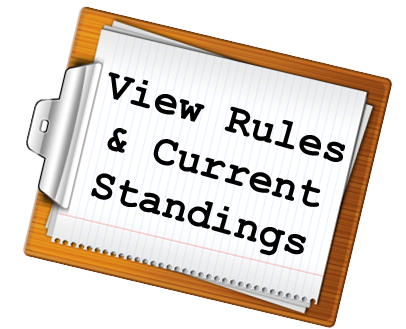
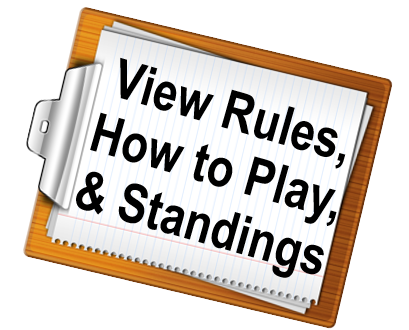
Add how to play section

diff --git a/Golf/index.html b/Golf/index.html
@@ -14,6 +14,53 @@
 			color:blue;
 			cursor:pointer;
 		}*/
+		.deviceDescription {
+			text-align:center;
+			vertical-align:top;
+			font-family:Tahoma, sans-serif;
+			font-size:14pt;
+		}
+		#mobileDescription {
+			text-align:center;
+			font-family:Tahoma, sans-serif;
+			font-size:14pt;
+			margin-top:13px;
+		}
+		#howToPlay {
+			font-family:'Roboto Slab', Tahoma, sans-serif;
+			font-size:30pt;
+			display:inline-block;
+			text-align:center;
+			margin-left:-2%;
+		}
+		.howToPlayHalf {
+			width:46%;
+			margin: 0% 1% 1% 1%;
+			display:inline-block;
+			vertical-align:top;
+		}
+		.howToPlaySubsection {
+			border:4px solid #006600;
+			border-radius:6px;
+			width:100%;
+			padding:5px;
+			font-family:Tahoma, sans-serif;
+			font-size:12pt;
+			display:inline-block;
+			text-align:center;
+			margin-top:10px;
+		}
+		.howToPlaySubtitle {
+			font-family:'Roboto Slab', Tahoma, sans-serif;
+			font-size:21pt;
+			margin: 0px;
+		}
+		.howToPlaySubsection img {
+			max-width:95%;
+			max-height:95%;
+			display:inline-block;
+			margin-top:10px;
+		}
 		.widthTest {
 			font-family:'Roboto Slab', Tahoma, sans-serif;
 			font-size:50pt;
@@ -331,7 +378,7 @@
 
 		.scoringSettings li::after {
 			content: "";
-			border-bottom: 4px dotted;
+			border-bottom: 3px dotted;
 			flex-grow: 1;
 			order: 2;
 			margin-bottom:0.4em;
@@ -348,6 +395,7 @@
     		padding:1em;
     		margin-top:1em;
     		position:relative;
+    		max-width:830px;
 		}
 
 		.startSelectionScreen {
@@ -453,7 +501,7 @@
 			cursor:pointer;
 		}
 
-    	#instructions {
+    	#scoringRules {
     		text-align:left;
     		width:13em;
     		display:inline-block;
@@ -536,9 +584,17 @@
     		margin-bottom:10px;
 		}
 
-		#instructionsButton {
+		#scoringRulesButton {
 			border-top-right-radius:0px;
 			border-bottom-right-radius:0px;
+			margin-right:-3px;
+		}
+		#howToPlayButton {
+			border-top-left-radius:0px;
+			border-bottom-left-radius:0px;
+			border-top-right-radius:0px;
+			border-bottom-right-radius:0px;
+			margin-left:-3px;
 			margin-right:-3px;
 		}
 		#standingsButton {
@@ -562,6 +618,21 @@
 		.overlayCloseButton {
     		background-color:#8833bb;
     		color:white;
+		}
+
+		#rulesStandingsTopCloseButton {
+			font-size:20pt;
+			font-family:sans-serif;
+			font-weight:bold;
+			position:absolute;
+			top:-20px;
+			left:100%;
+			margin-left:-30px;
+			min-width:50px;
+			min-height:50px;
+			padding: 4px 13px 7px 13px;
+			border:3px solid #440066;
+			border-radius:25px;
 		}
 
 		.scoreImg {
@@ -715,7 +786,7 @@
 					<td>
 						<div class="deviceOption" onclick="ClickedDevice(this)">
 							<img src="pc.png">
-							<p>Computer/Laptop</p>
+							<p>Laptop/Computer</p>
 						</div>
 					</td>
 					<td>
@@ -726,20 +797,49 @@
 					</td>
 				</tr>
 				<tr>
-					<td style="text-align:center;vertical-align:top;">(Excellent choice!)</td>
-					<td style="text-align:center;vertical-align:top;">This option will make your cards display bigger when it's your turn so you don't accidentally tap the wrong one and say "Wait, I didn't mean to do that!"</td>
+					<td class="deviceDescription">Excellent choice!</td>
+					<td class="deviceDescription">Turn your device horizontally to landscape for best results</td>
 				</tr>
 			</table>
+			<div id="mobileDescription" style="display:none">On a mobile device, your cards will automatically display larger on your turn so you don't accidentally tap on the wrong one and say "Wait, I didn't mean to do that!"</div>
 			<div class="buttonContainer">
 				<button id="deviceSelectDoneButton" style="display:none" class="overlayCloseButton" onclick="DeviceSelectDone()">Continue</button>
 			</div>
 		</span>
 		<span id="rulesStandings" class="overlayContent">
+			<button class="overlayCloseButton" id="rulesStandingsTopCloseButton" title="Close" onclick="OverlayClose()">x<img src=""></button>
 			<div class="buttonContainer">
-				<button id='instructionsButton' class="rulesStandingsButton selected" onclick="ShowInstructions()">Scoring Rules</button>
+				<button id='scoringRulesButton' class="rulesStandingsButton selected" onclick="ShowScoringRules()">Scoring Rules</button>
+				<button id='howToPlayButton' class="rulesStandingsButton" onclick="ShowHowToPlay()">How to Play</button>
 				<button id='standingsButton' class="rulesStandingsButton" onclick="ShowRoundByRound()">Current Standings</button>
 			</div>
-			<span id="instructions">
+			<span id="howToPlay">
+				<span class="howToPlayHalf">
+					<span class="howToPlaySubsection" id="howToPlayFlip">
+						<p class="howToPlaySubtitle">Flip over card</p>
+						<span>To flip over one of your face-down cards, click on it.</span>
+						<img src="howToPlay/flip.png">
+					</span>
+					<span class="howToPlaySubsection" id="howToPlayTake">
+						<p class="howToPlaySubtitle">Take the card in the middle</p>
+						<span>To take the face-up card in the middle, (1) click on it so it gets highlighted in blue, and then (2) click on the card in your hand that you want to trade it for.</span>
+						<img src="howToPlay/take.png">
+					</span>
+				</span>
+				<span class="howToPlayHalf">
+					<span class="howToPlaySubsection" id="howToPlayDraw">
+						<p class="howToPlaySubtitle">Draw a card</p>
+						<span>To draw the top card from the face-down pile in the middle, (1) click on the draw card to flip it over, and then (2) if you want to keep it, click on the card in your hand that you want to trade it for.</span>
+						<img src="howToPlay/draw.png">
+					</span>
+					<span class="howToPlaySubsection" id="howToPlayDiscard">
+						<p class="howToPlaySubtitle">Discard the draw card</p>
+						<span>If you flipped over the draw card and decide you don't want it, click the red Discard button to get rid of it and end your turn.</span>
+						<img src="howToPlay/discard.png">
+					</span>
+				</span>
+			</span>
+			<span id="scoringRules">
 				<u><i><strong>GOLF</strong></i></u>
 				<ul class="scoringSettings">
 				  <li>
@@ -849,7 +949,7 @@
 	var PREV_SHOW_SCORES = SHOW_SCORES;
 
 	var LAST_RESIZE = new Date();
-	var LAST_WINDOW_SIZE = $("#bgPhoto").width();
+	var LAST_WINDOW_SIZE = window.innerWidth;
 
 	$(".centerInfo").hide();
 	$("#playButtonContainer").hide();
@@ -890,6 +990,7 @@
 			$(el).addClass("selectedDevice");
 		}
 
+		$("#mobileDescription").toggle($("#deviceOptionMobile").hasClass("selectedDevice"));
 		$("#deviceSelectDoneButton").toggle($(".selectedDevice").length > 0);
 	}
 
@@ -897,6 +998,13 @@
 		IS_TOUCHSCREEN = $("#deviceOptionMobile").hasClass("selectedDevice");
 		if (IS_TOUCHSCREEN) {
 			$("#playerChoose h2").hide();
+			$(".howToPlaySubsection span").each(function() {
+				$(this).html($(this).html().replace("click", "tap").replace("click", "tap"));
+			});
+			$(".howToPlaySubsection img").each(function() {
+				var src = $(this).attr("src");
+				$(this).attr("src", src.substring(0, src.length - 4) + "_mobile.png");
+			});
 		}
 
 		OverlayClose();
@@ -1111,7 +1219,7 @@
 
 		if (ROUND_NUM < 1) {
 			var buttonDiv2 = $("<div class='buttonContainer'></div>");
-			buttonDiv2.append("<button class='changeSeatsButton' style='padding:3px;font-size:11pt' onclick='ChangeSeats()'>This seating arrangement<br>sucks, change it</button>");
+			buttonDiv2.append("<button class='changeSeatsButton' style='padding:3px;font-size:11pt;background-color:white' onclick='ChangeSeats()'>This seating arrangement<br>sucks, change it</button>");
 			$("#centerCell").append(buttonDiv2);
 		}
 
@@ -2332,7 +2440,7 @@
 	}
 
 	function FitToWindow(pOnPageLoad) {
-		var currWindowSize = $("#bgPhoto").width();
+		var currWindowSize = window.innerWidth;
 
 		if (currWindowSize === LAST_WINDOW_SIZE && pOnPageLoad !== true) {
 			return;
@@ -2345,7 +2453,7 @@
 			if (currTime !== LAST_RESIZE) {
 				return;
 			}
-			LAST_WINDOW_SIZE = $("#bgPhoto").width();
+			LAST_WINDOW_SIZE = window.innerWidth;
 			ResizeText();
 			var idealMiddle = 0.575;
 			var tableHeight = $("#playTable").height();
@@ -2501,11 +2609,11 @@
 
 	function ResizeText() {
 		var idealWidth = 1270;
-		var actualWidth = $("#bgPhoto").width();
+		var actualWidth = window.innerWidth;
 		var scale = (actualWidth / idealWidth);
 
-		if (scale > 1.25) {
-			scale = 1.25;
+		if (scale > 1) {
+			scale = 1;
 		}
 
 		var photoHeight = scale * 100;
@@ -2519,7 +2627,7 @@
 		$(".playerInfo img").css("max-height", photoHeight + "px");
 		$(".playerName, #centerCell, .centerInfo").css("font-size", (scale * 12 < 7 ? 7 : scale * 12) + "pt");
 		$("#roundByRoundTable").css("font-size", (scale * 18) + "pt");
-		$("#instructions").css("font-size", (scale * 22) + "pt");
+		$("#scoringRules").css("font-size", (scale * 22) + "pt");
 		$(".buttonContainer button").css("font-size", (scale * 14) + "pt");
 		$(".changeSeatsButton").css("font-size", (scale * 11) + "pt");
 
@@ -2528,7 +2636,7 @@
 
 	function ResizeCards() {
 		var idealWidth = 1270;
-		var actualWidth = $("#bgPhoto").width();
+		var actualWidth = window.innerWidth;
 		var scale = (actualWidth / idealWidth);
 
 		// Compensate for line thickness
@@ -2565,44 +2673,93 @@
 	}
 
 	function ShowRulesStandings() {
-		if ($("#instructionsButton").hasClass("selected")) {
-			ShowInstructions();
+		if ($("#howToPlayButton").hasClass("selected")) {
+			ShowHowToPlay();
+		}
+		else if ($("#scoringRulesButton").hasClass("selected")) {
+			ShowScoringRules();
 		}
 		else {
 			ShowRoundByRound();
 		}
 	}
 
-	function ShowRoundByRound() {
+	function ShowHowToPlay() {
 		$(".overlayContent").hide();
 		$("#rulesStandings").show();
-		$("#instructions").hide();
-		$("#roundByRoundTable").show();
-		$("#instructionsButton").removeClass("selected");
-		$("#standingsButton").addClass("selected");
-		ShowOverlay();
-	}
-
-	function ShowInstructions() {
-		$(".overlayContent").hide();
-		$("#rulesStandings").show();
-		$("#instructions").show();
+		$("#howToPlay").show();
+		$("#scoringRules").hide();
 		$("#roundByRoundTable").hide();
-		$("#instructionsButton").addClass("selected");
+		$("#howToPlayButton").addClass("selected");
+		$("#scoringRulesButton").removeClass("selected");
 		$("#standingsButton").removeClass("selected");
 		ShowOverlay();
 	}
 
+	function ShowScoringRules() {
+		$(".overlayContent").hide();
+		$("#rulesStandings").show();
+		$("#howToPlay").hide();
+		$("#scoringRules").show();
+		$("#roundByRoundTable").hide();
+		$("#howToPlayButton").removeClass("selected");
+		$("#scoringRulesButton").addClass("selected");
+		$("#standingsButton").removeClass("selected");
+		ShowOverlay();
+	}
+
+	function ShowRoundByRound() {
+		$(".overlayContent").hide();
+		$("#rulesStandings").show();
+		$("#howToPlay").hide();
+		$("#scoringRules").hide();
+		$("#roundByRoundTable").show();
+		$("#howToPlayButton").removeClass("selected");
+		$("#scoringRulesButton").removeClass("selected");
+		$("#standingsButton").addClass("selected");
+		ShowOverlay();
+	}
+
 	function ShowOverlay() {
-		FitOverlay();
-		$("#overlayContainer").fadeIn(500);
+		setTimeout(function() {
+			FitOverlay();
+			var scrollTo = parseInt($(".overlayContent:visible").css("top")) - 5;
+			var imageHeight = $("#bgPhoto").height();
+			var windowHeight = window.innerHeight;
+			if (scrollTo + windowHeight > imageHeight) {
+				scrollTo = imageHeight - windowHeight;
+			}
+			if (scrollTo < 0) {
+				scrollTo = 0;
+			}
+
+			$("body").animate({scrollTop: scrollTo}, 500);
+		}, 10);
+		$("#overlayContainer").fadeIn(500);		
 	}
 
 	function FitOverlay() {
 		var imageHeight = $("#bgPhoto").height();
 		var windowHeight = window.innerHeight;
+		var contentHeight = $(".overlayContent:visible").outerHeight() + 20;
 		var overlayHeight = (imageHeight > windowHeight ? imageHeight : windowHeight);
-		$(".overlayContent").css("top", window.scrollY);
+		var targetTop = window.scrollY;
+
+		console.log(targetTop);
+		console.log(contentHeight);
+		console.log(windowHeight);
+		console.log(overlayHeight);
+
+		if (targetTop + contentHeight > overlayHeight) {
+			console.log("part 1");
+			targetTop = overlayHeight - contentHeight;
+		}
+		if (targetTop < 0) {
+			console.log("part 2");
+			targetTop = 0;
+		}
+
+		$(".overlayContent").css("top", targetTop + 5);
 		$("#overlayContainer").css("height", "" + overlayHeight + "px");
 	}
 
